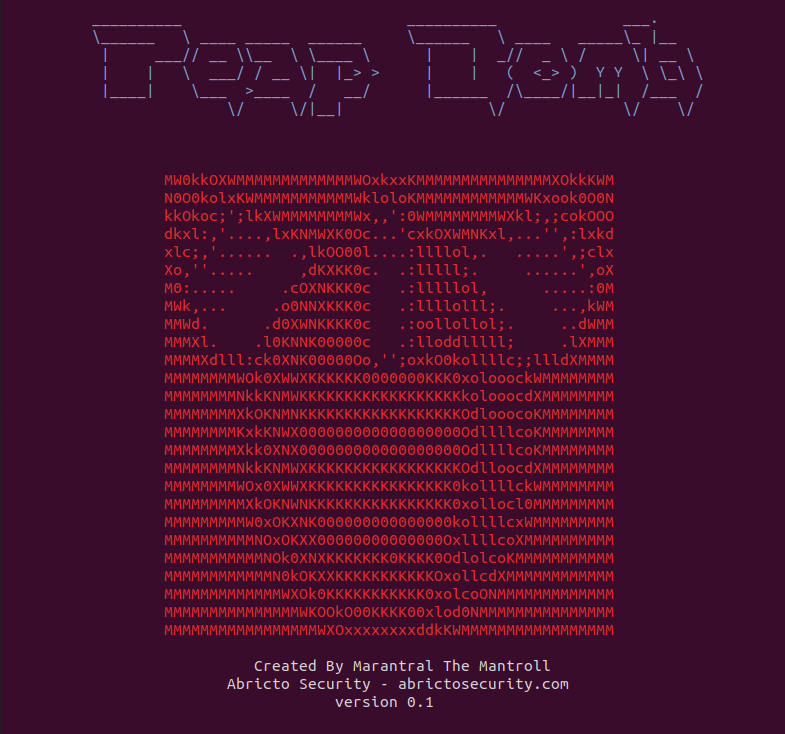
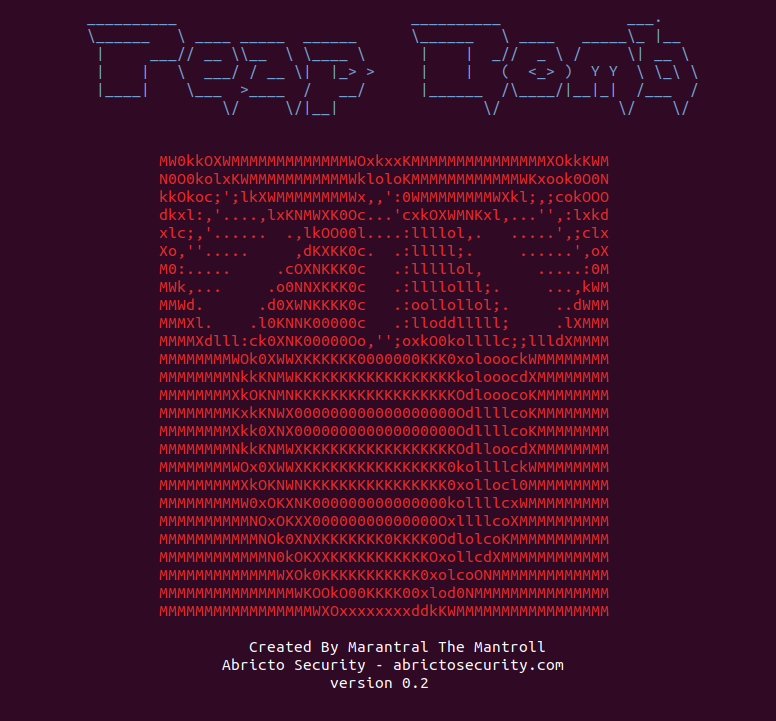
Version 0.2

diff --git a/peapbomb.py b/peapbomb.py
@@ -103,7 +103,7 @@ def bomb():
     print(color.END + """\
                             Created By Marantral The Mantroll
                          Abricto Security - abrictosecurity.com
-                                     version 0.1
+                                     version 0.2
     """)
     print(
         color.GREEN + color.BOLD + "\nFor your convenience here are all the interfaces that seem to be wireless:" + color.RED)
